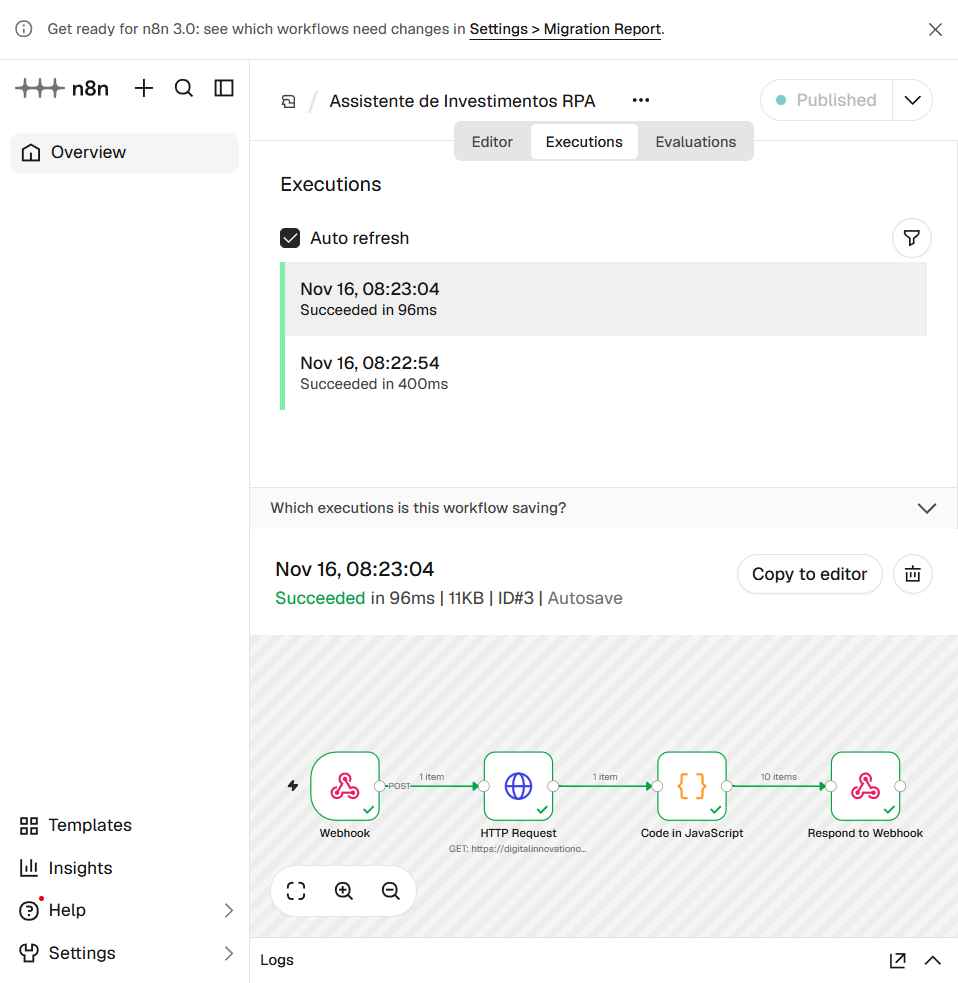
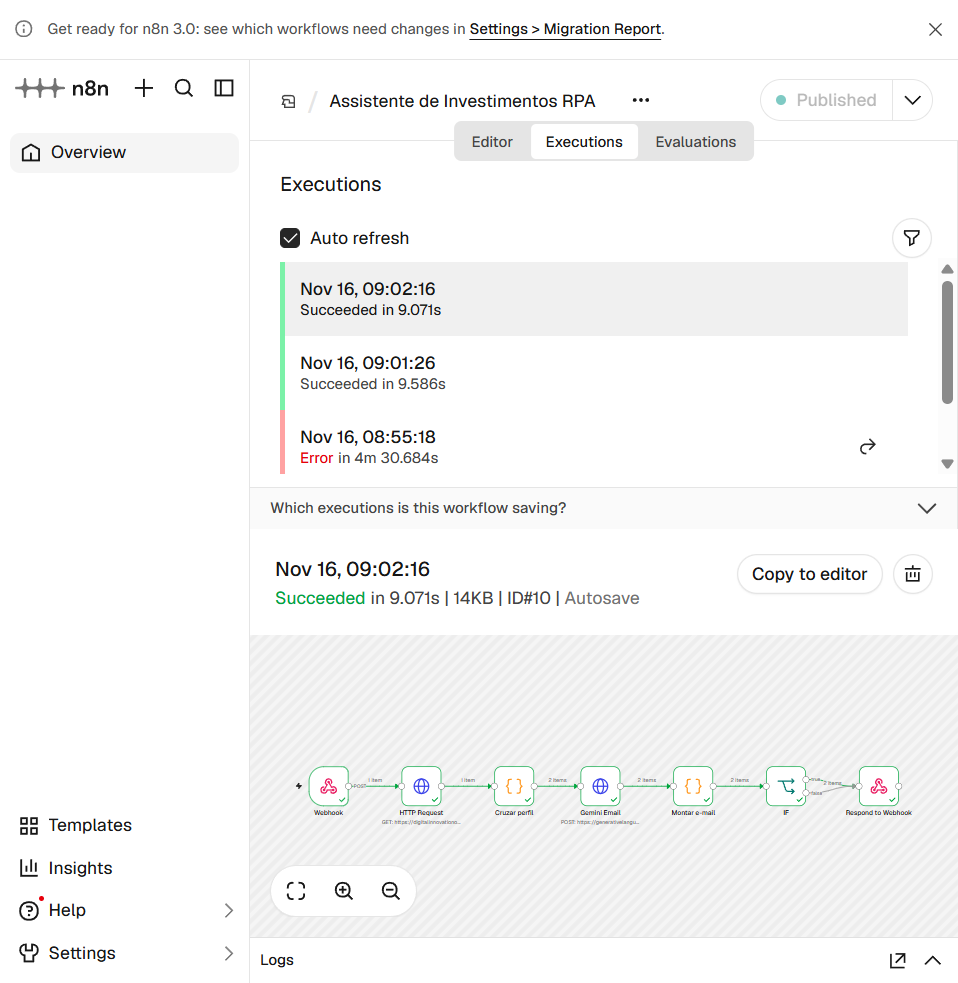
Adiciona geração de e-mail com Gemini no fluxo n8n.
Troca o LangChain por HTTP generateContent (gemini-3.5-flash-lite) e documenta a execução com prints.

diff --git a/README.md b/README.md
@@ -1,13 +1,15 @@
 # Assistente de investimentos com RPA, n8n e IA
 
-Fork do lab da DIO. Eu completei o fluxo: o Python lê os clientes, o n8n cruza com o CSV e devolve uma mensagem por perfil. O print da execução está em `docs/execucao.png`.
+Fork do lab da DIO. O Python lê os clientes, o n8n cruza com o CSV, a Gemini gera o corpo do e-mail e a resposta volta no webhook. Print da execução em `docs/execucao.png`.
 
-## O que já funciona (MVP)
+## O que já funciona
 
 1. RPA em `rpa/extrair_clientes.py` (e o notebook com o webhook ligado).
-2. Workflow em `n8n/workflow.json`: Webhook → HTTP (CSV) → Code → Respond.
-3. Cruzamento real Conservador / Moderado / Arrojado com o produto do CSV.
-4. Print da execução com os 4 nós em sucesso e 10 itens na resposta.
+2. Workflow em `n8n/workflow.json`:
+   Webhook → HTTP (CSV) → Cruzar perfil → Gemini Email → Montar e-mail → IF → Respond.
+3. Cruzamento Conservador / Moderado / Arrojado (case-insensitive) com o produto do CSV.
+4. Texto do e-mail gerado por `gemini-3.5-flash-lite` via HTTP + credencial `googlePalmApi`.
+5. Prints da execução com sucesso (incluindo Gemini) em `docs/prints/`.
 
 Página: https://digitalinnovationone.github.io/dio-lab-assistente-investimentos-rpa-n8n/
 
@@ -16,11 +18,13 @@ CSV: https://digitalinnovationone.github.io/dio-lab-assistente-investimentos-rpa
 ## Como rodar
 
 1. `n8n start`
-2. Importar `n8n/workflow.json` e publicar o fluxo.
+2. Importar `n8n/workflow.json`, criar a credencial **Google Gemini (PaLM) Api** e publicar o fluxo.
 3. `pip install requests beautifulsoup4`
 4. `python rpa/extrair_clientes.py`
 
 Webhook padrão: `http://127.0.0.1:5678/webhook/clientes`
+
+Não cole a API key no repositório nem no chat.
 
 ## Prints
 
@@ -28,14 +32,14 @@ Webhook padrão: `http://127.0.0.1:5678/webhook/clientes`
 
 Mais prints em `docs/prints/`.
 
-## Desafio com Gemini e Gmail
+## Gmail (opcional / desafio completo)
 
-A aula segue com LLM gerando o texto do e-mail e o nó Gmail enviando. Eu tenho a chave Gemini e o próximo passo é:
+O fluxo já devolve `email_to`, `assunto` e `corpo_email`. Para enviar de verdade:
 
-1. Criar a credencial Gemini no n8n (não colar a chave no README).
-2. Trocar/estender o nó de mensagem para o modelo gerar o texto.
-3. Conectar o Gmail na conta e validar o envio.
+1. Conectar credencial OAuth do Gmail no n8n.
+2. Ligar o nó Gmail depois de **Montar e-mail** (ou no ramo `true` do IF).
 
 ## Decisão técnica
 
-A mensagem do MVP sai do Code com os dados do cliente e do CSV, sem pagar API. Assim o print fecha. A IA entra no desafio completo, em cima desse mesmo fluxo.
+- LangChain/`lmChatGoogleGemini` ficou instável nesta versão do n8n (modelo antigo 404 / 3.8-flash travava).
+- A chamada HTTP direta em `generateContent` com `gemini-3.5-flash-lite` fechou o desafio de IA com resposta rápida e estável.
